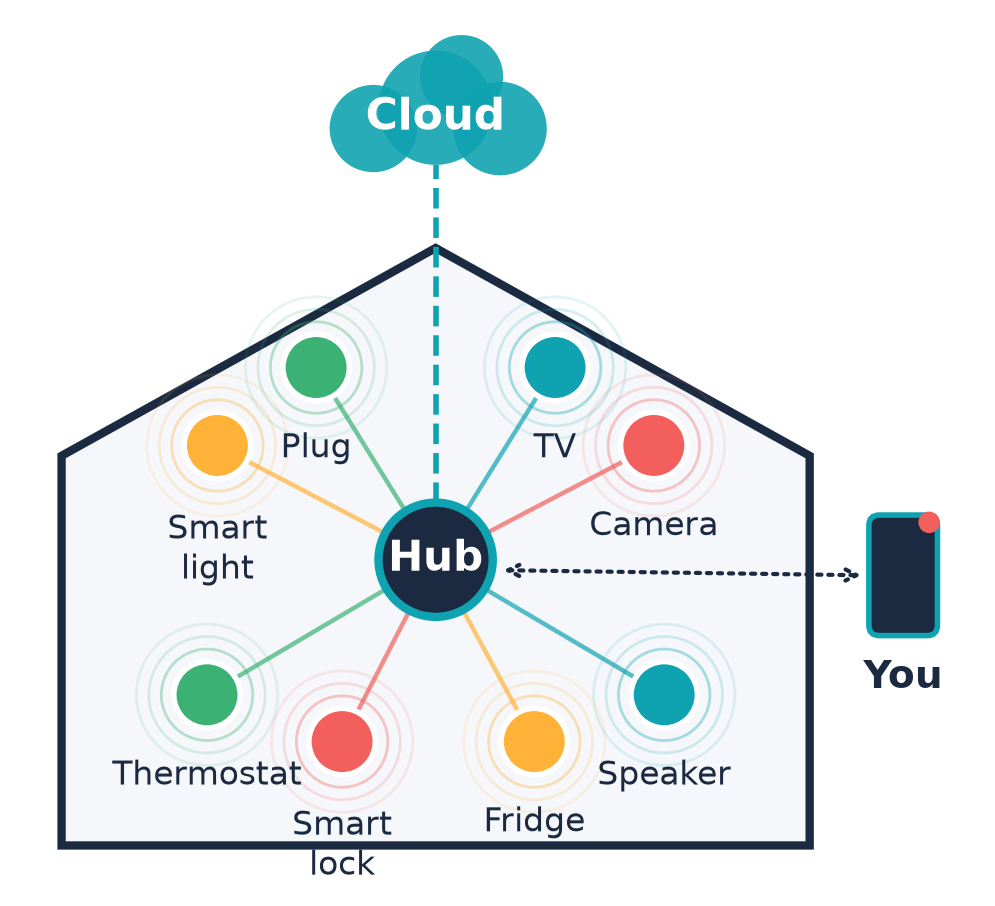
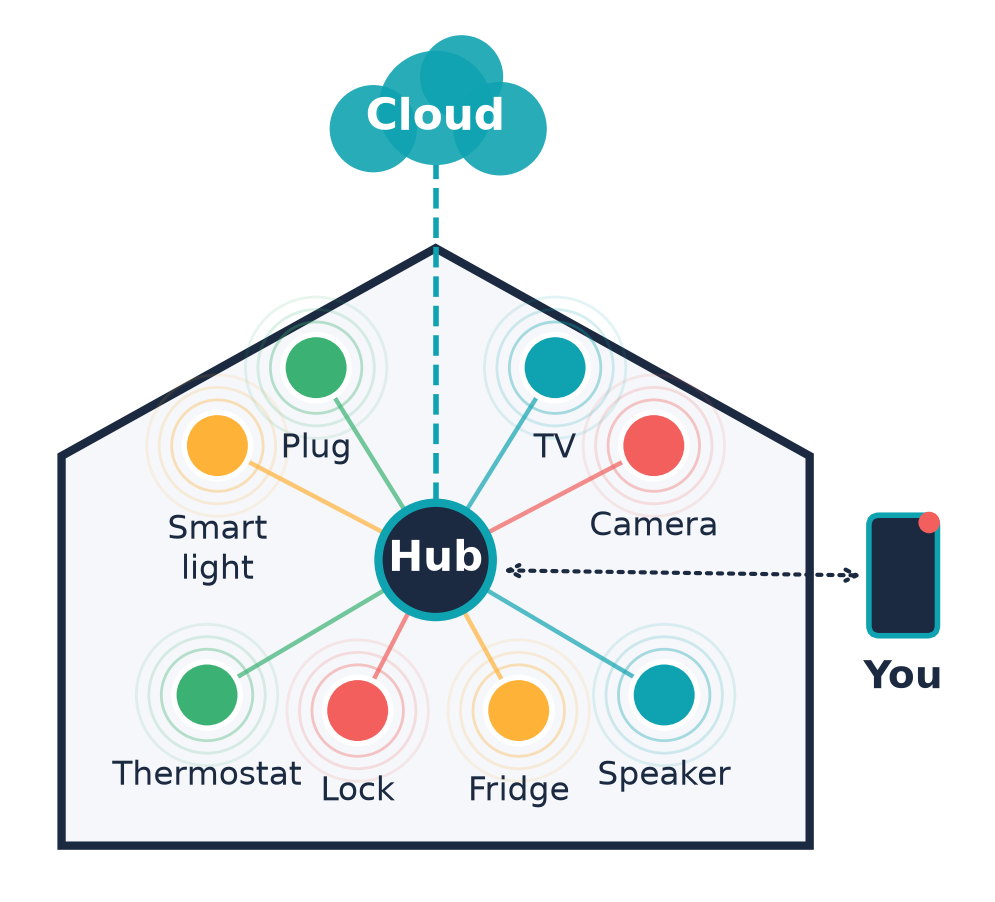
Content: sources for 1844/1969/1973, IEEE bib fixes, wording and data consistency, smart-home figure labels, appendix fits one page (round-4 content findings)

diff --git a/chapters/02-history.tex b/chapters/02-history.tex
@@ -6,7 +6,7 @@
 
 \section{הודעה שנעה במהירות של רגליים}
 
-במשך רוב ההיסטוריה האנושית, מהירות המידע הייתה שווה למהירות הגוף. ציידת-לקטת שרצתה לספר לשבט השכן שנמצא מעיין חדש הייתה צריכה ללכת לשם. מלך שרצה לשלוח פקודה לגבול הממלכה שלח רץ, ואחר כך פרש. גם האימפריות הגדולות של העולם העתיק, עם הדרכים הסלולות ותחנות הדואר שלהן, לא הצליחו לשבור את החוק הבסיסי הזה: הודעה לא יכולה לנוע מהר יותר מהשליח שנושא אותה.
+במשך רוב ההיסטוריה האנושית, מהירות המידע הייתה שווה למהירות הגוף. מי שרצה לספר לשבט השכן שנמצא מעיין חדש היה צריך ללכת לשם ברגליו. מלך שרצה לשלוח פקודה לגבול הממלכה שלח רץ, ואחר כך פרש. גם האימפריות הגדולות של העולם העתיק, עם הדרכים הסלולות ותחנות הדואר שלהן, לא הצליחו לשבור את החוק הבסיסי הזה: הודעה לא יכולה לנוע מהר יותר מהשליח שנושא אותה.
 
 הדפוס של המאה ה-15 שינה את \textbf{כמות} המידע, אבל לא את מהירותו. ספר מודפס עדיין נסע בעגלה. הידיעה על מותו של מלך יכלה להגיע לפינות הממלכה שבועות אחרי שהוכתר יורשו.
 
@@ -14,7 +14,7 @@
 
 \section{המברק: כשהמילים עזבו את הסוס}
 
-ב-24 במאי 1844 שלח סמואל מורס את המברק הציבורי הראשון, מוושינגטון לבולטימור. ארבע מילים מהתנ"ך, \en{"What hath God wrought"}, עברו בין שתי הערים כמעט ברגע. לראשונה בהיסטוריה, הודעה הגיעה לפני השליח. למעשה, לא היה שליח בכלל.
+ב-24 במאי \num{1844} שלח סמואל מורס את המברק הציבורי הראשון, מוושינגטון לבולטימור \parencite{loc1844}. ארבע מילים מהתנ"ך, \en{"What hath God wrought"}, עברו בין שתי הערים כמעט ברגע. לראשונה בהיסטוריה, הודעה הגיעה לפני השליח. למעשה, לא היה שליח בכלל.
 
 קל לזלזל בזה היום, כשהודעת \en{WhatsApp} מגיעה לאוסטרליה בפחות משנייה. אבל עבור בני הדור ההוא זה היה דבר מדהים. עיתונים התחילו לפרסם חדשות מערים רחוקות מאתמול, ולא מהחודש שעבר. בורסות בערים שונות החלו לנשום באותו קצב. והפילוסופים של התקופה כבר דאגו: האם האנושות מסוגלת לעכל כל כך הרבה מידע, כל כך מהר?
 
@@ -24,7 +24,7 @@
 
 בעשורים שאחרי המברק הגיעו הטלפון, הרדיו והטלוויזיה. כל אחד מהם הוסיף משהו: את הקול, את ההמונים, את התמונה. אבל כולם עבדו לפי אותו היגיון: ערוץ אחד, מסר אחד, וקהל שמקבל.
 
-השינוי האמיתי התחיל במעבדות. בסוף אוקטובר 1969 נשלחה ההודעה הראשונה ברשת \en{ARPANET}, מאוניברסיטת \en{UCLA} אל מחשב מרוחק. זו הייתה רשת של חוקרים ושל משרד ההגנה האמריקאי, לא של אזרחים. כמעט אף אחד לא שם לב.
+השינוי האמיתי התחיל במעבדות. ב-29 באוקטובר \num{1969} נשלחה ההודעה הראשונה ברשת \en{ARPANET}, מאוניברסיטת \en{UCLA} אל מחשב מרוחק \parencite{kleinrock2019}. זו הייתה רשת של חוקרים ושל משרד ההגנה האמריקאי, לא של אזרחים. כמעט אף אחד לא שם לב.
 
 ב-1989 הגיש טים ברנרס-לי, מהנדס תוכנה במעבדת \en{CERN}, מסמך פנימי בשם "ניהול מידע: הצעה" \parencite{berners1989}. הממונה עליו רשם על המסמך, לפי המסורת, שההצעה "מעורפלת, אבל מרגשת". מן ההצעה המעורפלת הזאת נולד ה-\en{World Wide Web}. האינטרנט הפסיק להיות רשת של מומחים והתחיל להפוך לעיר שבה כולם יכולים לגור.
 
@@ -48,15 +48,15 @@
 \toprule
 \textbf{שנה} & \textbf{המצאה} & \textbf{מה השתנה} \\
 \midrule
-1844 & המברק של מורס & המידע נע מהר יותר מהשליח \\
+1844 & המברק של מורס & המידע נע מהר יותר מהשליח \parencite{loc1844} \\
 סוף המאה ה-19 & הטלפון & הקול האנושי חוצה מרחקים \\
 שנות ה-20 של המאה ה-20 & הרדיו & תקשורת המונים בזמן אמת \\
 אמצע המאה ה-20 & הטלוויזיה & התמונה נכנסת לסלון \\
-1969 & \en{ARPANET} & מחשבים מתחילים לדבר זה עם זה \\
-1973 & הטלפון הנייד & שיחה בלי חוטים, מהרחוב \\
+1969 & \en{ARPANET} & מחשבים מתחילים לדבר זה עם זה \parencite{kleinrock2019} \\
+1973 & הטלפון הנייד & שיחה בלי חוטים, מהרחוב \parencite{guinness1973} \\
 1989 & הצעת ה-\en{Web} ב-\en{CERN} & רשת שכל אחד יכול לגלוש בה \parencite{berners1989} \\
-שנות ה-2000 וה-2010 & הרשתות החברתיות & כל אדם הופך לתחנת שידור \\
 2007 & ה-\en{iPhone} & האינטרנט עובר לכיס \parencite{apple2007} \\
+שנות ה-2010 & הרשתות החברתיות בסמארטפון & כל אדם הופך לתחנת שידור \\
 2022 & \en{ChatGPT} & המכונה מתחילה לכתוב ולשוחח \parencite{openai2022} \\
 \bottomrule
 \end{tabularx}

diff --git a/chapters/03-digital-day.tex b/chapters/03-digital-day.tex
@@ -10,7 +10,7 @@
 
 היום שלנו בנוי אחרת. הוא מחולק לא לפי השמש אלא לפי המסכים. לפי הדוח הגלובלי \en{Digital 2024}, משתמש אינטרנט טיפוסי מבלה ברשת כ-6 שעות ו-40 דקות ביום, כ-400 דקות \parencite{kemp2024}. שנה קודם לכן היה המספר 6 שעות ו-36 דקות. כלומר, אחרי שנים של זינוק, הוא כמעט התייצב. אולי הגענו לתקרה. אולי פשוט נגמרו לנו השעות.
 
-כדי להבין את המספר הזה, כדאי לחשוב עליו כעל תקציב. אם אתם ישנים כשמונה שעות, נשארות לכם כשש עשרה שעות ערות. מתוכן, כ-\num{40\%} עוברות ברשת. ולא מדובר רק בגלילה בטלפון: גם העבודה מול המחשב, הסדרה בערב והניווט ברכב נכנסים לחשבון. הרשת היא כבר לא מקום שהולכים אליו. היא המקום שבו אנחנו נמצאים.
+כדי להבין את המספר הזה, כדאי לחשוב עליו כעל תקציב. אם אתם ישנים כשמונה שעות, נשארות לכם כשש-עשרה שעות שבהן אתם ערים. מתוכן, כ-\num{40\%} עוברות ברשת. ולא מדובר רק בגלילה בטלפון: גם העבודה מול המחשב, הסדרה בערב והניווט ברכב נכנסים לחשבון. הרשת היא כבר לא מקום שהולכים אליו. היא המקום שבו אנחנו נמצאים.
 
 \section{לאן הולך הזמן}
 
@@ -27,12 +27,12 @@
 סך כל הזמן ברשת & \num{6:40} \\
 רשתות חברתיות & \num{2:23} \\
 טלוויזיה משודרת (ליניארית) & \num{1:44} \\
-טלוויזיה בכל הפורמטים, כולל סטרימינג & יותר משלוש שעות \\
+טלוויזיה בכל הפורמטים, כולל סטרימינג & \num{>3:00}\textsuperscript{*} \\
 \bottomrule
 \end{tabularx}
 
 \vspace{0.3em}
-{\small\sffamily מקור: \textcite{kemp2024}. הפעילויות חופפות זו לזו, ולכן אינן מסתכמות לסך הכולל.}
+{\small\sffamily מקור: \textcite{kemp2024}. הפעילויות חופפות זו לזו, ולכן אינן מסתכמות לסך הכולל. \textsuperscript{*}הדוח מוסר רק שהזמן עולה על שלוש שעות, בלי ערך מדויק.}
 \end{table}
 
 הרשתות החברתיות לבדן לוקחות כ-2 שעות ו-23 דקות ביום \parencite{kemp2024}. נסו להשוות את זה לזמן שאתם מקדישים לארוחות, לספורט ולשיחה פנים אל פנים עם בני המשפחה, ביחד. המעניין הוא שהמספר הזה דווקא ירד מעט, מ-2 שעות ו-31 דקות בשנה הקודמת, אבל לפי הדוח עצמו, רוב הירידה נובעת משינוי בשיטת המדידה \parencite{kemp2024}. גם לסטטיסטיקה יש מצבי רוח.
@@ -52,7 +52,7 @@
 איך מסבירים את הפער? אפשר היה לנחש שהמדינות העשירות והטכנולוגיות ביותר יובילו. אבל דרום קוריאה, אחת המדינות המחוברות והמתקדמות בעולם, נמצאת דווקא סמוך לתחתית האיור. חשוב לזכור שאת המדינות באיור בחרנו אנחנו, מתוך אלה שהדוח מזכיר בטקסט, כדי להמחיש את הטווח. זו לא רשימה מלאה ולא דירוג. הנתונים לבדם לא מסבירים את הסיבה, וכדאי להיזהר מתשובות מהירות. ייתכן שיש לכך קשר לשעות העבודה, לגיל האוכלוסייה, למזג האוויר או לתרבות של בילוי מחוץ לבית. ייתכן שבמקומות שבהם הטלפון הוא המחשב היחיד, הוא גם הקולנוע, הבנק והכיכר העירונית. הדבר הבטוח היחיד הוא שזמן מסך איננו גזירת גורל טכנולוגית. הוא גם עניין של תרבות.
 
 \begin{factbox}[קנה המידה]
-בתחילת 2024 היו בעולם כ-5.35 מיליארד משתמשי אינטרנט וכ-5.04 מיליארד "זהויות" ברשתות חברתיות \parencite{kemp2024}. זהויות, לא אנשים: לאדם אחד יכולים להיות כמה חשבונות, ולחשבון אחד יכולים להיות כמה בעלים.
+בתחילת \num{2024} היו בעולם כ-\num{5.35} מיליארד משתמשי אינטרנט וכ-\num{5.04} מיליארד "זהויות" ברשתות חברתיות \parencite{kemp2024}. המספר נמוך מ-\num{5.87} המיליארד שבפרק הקודם, כי מדובר במקור אחר: \en{DataReportal} מודד את תחילת השנה ובשיטה משלו, ואילו \en{ITU} מעריך את השנה כולה, ובסדרה המעודכנת. זהויות, לא אנשים: לאדם אחד יכולים להיות כמה חשבונות, ולחשבון אחד יכולים להיות כמה בעלים.
 \end{factbox}
 
 \section{הזמן כמטבע}

diff --git a/chapters/06-smart-home.tex b/chapters/06-smart-home.tex
@@ -18,22 +18,22 @@
 
 איור~\ref{fig:smart-home} ממחיש את הרעיון. כל מכשיר בבית הוא צומת ברשת. כל אחד מהם אוסף מידע קטן ותמים לכאורה: טמפרטורה, תנועה, צריכת חשמל, קול. אבל כשמחברים את כל הנקודות, מתקבלת תמונה מפורטת להפתיע של החיים בתוך הבית.
 
-\section{כעשרים מיליארד חפצים מחוברים}
+\section{יותר משמונה-עשר מיליארד חפצים מחוברים}
 
-כמה "דברים" כבר מחוברים? לפי חברת המחקר \en{IoT Analytics}, ב-2024 היו בעולם כ-18.5 מיליארד מכשירים מחוברים, והתחזית ל-2025 עומדת על כ-21.1 מיליארד \parencite{iotanalytics2025}. צריך לקרוא את המספר הזה בזהירות. רובם המכריע של המכשירים האלה אינם בבתים: המספר כולל גם חיישנים במפעלים, בחקלאות ובתחבורה. לכן הוא איננו מודד בתים חכמים, ואין טעם להעמיד אותו מול מספר בני האדם המחוברים. מה שהוא כן מראה הוא שהרשת כבר איננה רק רשת של בני אדם.
+כמה "דברים" כבר מחוברים? לפי חברת המחקר \en{IoT Analytics}, ב-\num{2024} היו בעולם כ-\num{18.5} מיליארד מכשירים מחוברים. בדוח שפרסמה באוקטובר \num{2025} היא חזתה כ-\num{21.1} מיליארד עד סוף \num{2025} \parencite{iotanalytics2025}. כלומר, \num{18.5} הוא הנתון המדוד האחרון בדוח, ו-\num{21.1} הוא תחזית שפורסמה לפני סוף השנה, לא מדידה. צריך לקרוא את המספר הזה בזהירות. רובם המכריע של המכשירים האלה אינם בבתים: המספר כולל גם חיישנים במפעלים, בחקלאות ובתחבורה. לכן הוא איננו מודד בתים חכמים, ואין טעם להעמיד אותו מול מספר בני האדם המחוברים. מה שהוא כן מראה הוא שהרשת כבר איננה רק רשת של בני אדם.
 
 \begin{factbox}[מכשירים מחוברים בעולם]
 \begin{itemize}
   \item 2022: כ-14.4 מיליארד
   \item 2023: כ-16.7 מיליארד
   \item 2024: כ-18.5 מיליארד
-  \item 2025: כ-21.1 מיליארד (תחזית)
-  \item 2030: כ-39 מיליארד (תחזית)
+  \item 2025: כ-21.1 מיליארד (תחזית מאוקטובר \num{2025})
+  \item 2030: כ-39 מיליארד (תחזית מאוקטובר \num{2025})
 \end{itemize}
 מקור: \textcite{iotanalytics2025}. כל המכשירים המחוברים בעולם, לא רק בבתים.
 \end{factbox}
 
-הסדרה הזאת מראה האצה. בין 2022 ל-2024 נוספו כארבעה מיליארד מכשירים בתוך שנתיים. אם תחזית 2025 תתממש, בתוך שלוש שנים בלבד יתווספו כשבעה מיליארד מכשירים, ולפי התחזית, עד 2030 המספר יגדל פי שניים ויותר לעומת 2024 \parencite{iotanalytics2025}. אלה תחזיות של חברת מחקר, לא מדידות, והן כוללות את כל המכשירים המחוברים, לא רק את אלה שבבית. הרשת, שהתחילה כקשר בין כמה מחשבים באוניברסיטאות, הופכת למערכת עצבים שעוטפת את כדור הארץ.
+הסדרה הזאת מראה האצה. בין 2022 ל-2024 נוספו כארבעה מיליארד מכשירים בתוך שנתיים. אם תחזית \num{2025}, שפורסמה באוקטובר של אותה שנה, התממשה, בתוך שלוש שנים בלבד יתווספו כשבעה מיליארד מכשירים, ולפי התחזית, עד 2030 המספר יגדל פי שניים ויותר לעומת 2024 \parencite{iotanalytics2025}. אלה תחזיות של חברת מחקר, לא מדידות, והן כוללות את כל המכשירים המחוברים, לא רק את אלה שבבית. הרשת, שהתחילה כקשר בין כמה מחשבים באוניברסיטאות, הופכת למערכת עצבים שעוטפת את כדור הארץ.
 
 \section{נוחות במחיר פרטיות}
 

diff --git a/chapters/04-attention.tex b/chapters/04-attention.tex
@@ -33,7 +33,7 @@
 
 \section{מעגל בן שמונה שלבים}
 
-מודל ה-\en{Hook} מסביר מה קורה בצד של המשתמש. אבל כדי להבין את כלכלת הקשב, צריך לראות גם את הצד השני של המסך. איור~\ref{fig:attention-loop} מחבר את שני הצדדים למעגל אחד בן שמונה שלבים. חשוב לומר בדיוק מה מקורו של כל חלק. שלבים \num{1--4} הם מודל ה-\en{Hook} של אייל \parencite{eyal2014}. שלבים \num{5--8} הם \textbf{סינתזה של מחבר הספר}: הם אינם מופיעים כשלבים לא אצל אייל ולא אצל זובוף, אלא מנסים לתרגם לשרשרת פשוטה את הרעיון של זובוף על העודף ההתנהגותי, שנפגוש בהמשך הפרק \parencite{zuboff2019}.
+מודל ה-\en{Hook} מסביר מה קורה בצד של המשתמש. אבל כדי להבין את כלכלת הקשב, צריך לראות גם את הצד השני של המסך. איור~\ref{fig:attention-loop} מחבר את שני הצדדים למעגל אחד בן שמונה שלבים. חשוב לומר בדיוק מה מקורו של כל חלק. שלבים \num{1--4} הם מודל ה-\en{Hook} של אייל \parencite{eyal2014}. שלבים \num{5--8} הם \textbf{הסינתזה שלנו}: הם אינם מופיעים כשלבים לא אצל אייל ולא אצל זובוף, אלא מנסים לתרגם לשרשרת פשוטה את הרעיון של זובוף על העודף ההתנהגותי, שנפגוש בהמשך הפרק \parencite{zuboff2019}.
 
 \input{chapters/figures/attention-loop}
 
@@ -44,7 +44,7 @@
   \item \textbf{פעולה}: אתם פותחים את האפליקציה. זה לוקח שנייה, ולא דורש מחשבה.
   \item \textbf{תגמול משתנה}: אולי לייק, אולי הודעה, אולי סרטון מצחיק. אי-הוודאות היא שמחזיקה אתכם.
   \item \textbf{השקעה}: אתם מגיבים, מעלים תמונה, עוקבים אחרי מישהו. כל השקעה כזאת מגדילה את הסיכוי שתחזרו.
-  \item \textbf{איסוף נתונים}: כל גלילה, כל עצירה וכל הקלקה נרשמות.
+  \item \textbf{איסוף נתונים}: כל גלילה, כל עצירה וכל לחיצה נרשמות.
   \item \textbf{אלגוריתם}: המערכת לומדת מה מחזיק דווקא אתכם, ומתאימה את התוכן הבא.
   \item \textbf{פרסום ממוקד}: הקשב שלכם, יחד עם מה שנלמד עליכם, נמכר למפרסמים.
   \item \textbf{הכנסות}: הכסף מושקע בחזרה בפיתוח תכונות שמחזיקות אתכם עוד יותר, והמעגל מתחיל מחדש עם טריגר חדש.

diff --git a/chapters/09-appendix-code.tex b/chapters/09-appendix-code.tex
@@ -2,10 +2,6 @@
 \addcontentsline{toc}{chapter}{נספח א: הקוד שמאחורי הגרף}
 \markboth{נספח א: הקוד שמאחורי הגרף}{}
 
-כל הגרפים בספר נוצרו בקוד \en{Python}, ולא צוירו ביד. כך אפשר לבדוק כל מספר בגרף מול המקור שצוין לו, וכל שינוי בנתונים מייצר גרף חדש בפקודה אחת. הקטע שלמטה הוא הפונקציה שמייצרת את איור~\ref{fig:goldilocks}. היא מתרגמת את משוואה~\eqref{eq:goldilocks} ישירות לקוד: לכל פעילות היא בוחרת $\beta_1 = 2\beta_2 t^{*}$, כך שהשיא של העקומה נופל בדיוק על נקודת המפנה שדווחה, לפי ההודעה לעיתונות על המאמר של \textcite{przybylski2017}. שימו לב למה שזה אומר: מיקום השיא הוא \textbf{קלט} של המודל ולא תוצאה שלו, וגובה העקומות מנורמל לאותו ערך. הקוד מדגים את הצורה, אבל אינו מוכיח אותה.
+כל הגרפים בספר נוצרו בקוד \en{Python}, ולא צוירו ביד, וכל הספר נבנה מחדש בפקודה אחת, \en{bash build.sh}. הקטע שלמטה הוא הפונקציה שמייצרת את איור~\ref{fig:goldilocks}. היא מתרגמת את משוואה~\eqref{eq:goldilocks} ישירות לקוד: לכל פעילות היא בוחרת $\beta_1 = 2\beta_2 t^{*}$, כך שהשיא נופל בדיוק על נקודת המפנה שדווחה \parencite{przybylski2017}. שימו לב: מיקום השיא הוא \textbf{קלט} של המודל ולא תוצאה שלו, והגובה מנורמל. הקוד מדגים את הצורה, אבל אינו מוכיח אותה.
 
 \pythonfile[firstline=107, lastline=137]{python/make_graphs.py}{הפונקציה \en{goldilocks()} מתוך \en{python/make\_graphs.py}}
-
-\begin{factbox}[איך משחזרים את הספר]
-כל הספר נבנה מחדש בפקודה אחת: \en{bash build.sh}. הפקודה מריצה את סקריפטי ה-\en{Python} שמייצרים את התמונות, ואז \en{lualatex}, \en{biber} ושוב \en{lualatex} פעמיים. קבצי המקור, התבנית \en{connected.cls} והנתונים נמצאים כולם במאגר, ולכן כל אחד יכול לקבל \en{PDF} זהה.
-\end{factbox}

diff --git a/chapters/05-wellbeing.tex b/chapters/05-wellbeing.tex
@@ -63,7 +63,7 @@ t^{*} = \frac{\beta_1}{2\beta_2}
   \item \textbf{מחשב לשימוש פנאי}: כ-4 שעות ו-17 דקות ביום.
 \end{itemize}
 
-במילים פשוטות: בערך שעתיים בסמארטפון ביום חול, ועד כארבע שעות ויותר בצפייה וביישומי מחשב. לפי הערכים האלה, הסמארטפון ומשחקי הווידאו מגיעים לנקודת המפנה מוקדם ביותר, עוד לפני שתי שעות ביום. אבל אל תתייחסו לדקות כאל גבול מדויק: מדובר בממוצע של מדגם אחד, סביב אפקט קטן.
+במילים פשוטות: בערך שעתיים בסמארטפון ביום חול, ובסביבות ארבע שעות, מעט פחות או מעט יותר, בצפייה ובמחשב. לפי הערכים האלה, הסמארטפון ומשחקי הווידאו מגיעים לנקודת המפנה מוקדם ביותר, עוד לפני שתי שעות ביום. אבל אל תתייחסו לדקות כאל גבול מדויק: מדובר בממוצע של מדגם אחד, סביב אפקט קטן.
 
 \begin{alertbox}[זהירות: אפקט קטן, קשר ולא סיבה]
 שני דברים חשוב לזכור. ראשית, \textbf{האפקט חלש}. גם בשימוש גבוה, ההבדל ברווחה קטן \parencite{przybylski2017}. שנית, זה \textbf{מחקר מתאמי}: הוא מראה ששני דברים הולכים יחד, לא שאחד גורם לשני. ייתכן שמתבגרים שמרגישים רע פונים יותר למסכים, ולא להפך. ניתוח מאוחר יותר של מדגמים גדולים מצא קשר שלילי קטן מאוד בין שימוש בטכנולוגיה לבין רווחת מתבגרים \parencite{orben2019}. זה הממצא החשוב ביותר בפרק, חשוב יותר מהמיקום המדויק של כל שיא.

diff --git a/chapters/figures/attention-loop.tex b/chapters/figures/attention-loop.tex
@@ -38,6 +38,6 @@
                         b5/5/screen, b6/6/screen, b7/7/night, b8/8/night}
     \node[num=\c] at (\b.north east) {\n};
 \end{ltrpicture}
-\caption[מעגל כלכלת הקשב: שמונה שלבים]{מעגל כלכלת הקשב: שמונה שלבים שהופכים דקה של סקרנות לשעה של גלילה. שלבים \num{1--4}: מודל ה-\en{Hook} של \textcite{eyal2014}. שלבים \num{5--8}: סינתזה של מחבר הספר, בהשראת רעיון העודף ההתנהגותי (\en{behavioral surplus}) של \textcite{zuboff2019}.}
+\caption[מעגל כלכלת הקשב: שמונה שלבים]{מעגל כלכלת הקשב: שמונה שלבים שהופכים דקה של סקרנות לשעה של גלילה. שלבים \num{1--4}: מודל ה-\en{Hook} של \textcite{eyal2014}. שלבים \num{5--8}: הסינתזה שלנו, בהשראת רעיון העודף ההתנהגותי (\en{behavioral surplus}) של \textcite{zuboff2019}.}
 \label{fig:attention-loop}
 \end{figure}

diff --git a/chapters/01-intro.tex b/chapters/01-intro.tex
@@ -52,4 +52,4 @@
   \item \textbf{סיכום ומבט לעתיד}: מה קורה כשהמכונה מתחילה לדבר בחזרה.
 \end{enumerate}
 
-לאורך הדרך תמצאו תיבות צבעוניות: נתוני מפתח, אזהרות, טיפים ושאלות למחשבה. את רוב השאלות לא נפתור. אבל לפעמים שאלה טובה שווה יותר מתשובה מהירה. בעיקר בעידן שבו תשובות מהירות נמצאות במרחק הקלקה אחת.
+לאורך הדרך תמצאו תיבות צבעוניות: נתוני מפתח, אזהרות, טיפים ושאלות למחשבה. את רוב השאלות לא נפתור. אבל לפעמים שאלה טובה שווה יותר מתשובה מהירה. בעיקר בעידן שבו תשובות מהירות נמצאות במרחק לחיצה אחת.

diff --git a/python/make_images.py b/python/make_images.py
@@ -77,7 +77,9 @@ def smart_home():
     # מכשירים: (x, y, צבע, תווית, צורה)
     devices = [(-2.1, 1.1, SUN, "Smart\nlight"), (2.1, 1.1, NOTIF, "Camera"),
                (-2.2, -1.3, LEAF, "Thermostat"), (2.2, -1.3, SCREEN, "Speaker"),
-               (-0.9, -1.75, NOTIF, "Smart\nlock"), (0.95, -1.75, SUN, "Fridge"),
+               # IMG-03: one-line "Lock" label, bottom row raised, so no label crosses
+               # the wall or touches "Thermostat"
+               (-0.75, -1.45, NOTIF, "Lock"), (0.8, -1.45, SUN, "Fridge"),
                (-1.15, 1.85, LEAF, "Plug"), (1.15, 1.85, SCREEN, "TV")]
     for x, y, c, lab in devices:
         ax.plot([0, x], [0, y], color=c, lw=1.6, alpha=0.7, zorder=3)

diff --git a/research/editor-report.md b/research/editor-report.md
@@ -170,3 +170,19 @@
 ### פרק 6: סדרת המכשירים המחוברים
 
 תיבת "מכשירים מחוברים בעולם" עם הסדרה המלאה של `iotanalytics2025` (2022: 14.4, 2023: 16.7, 2024: 18.5, 2025: 21.1 תחזית, 2030: 39 תחזית, במיליארדים) כבר הייתה בפרק, עם הסימון "תחזית" ועם ההערה "לא רק בבתים". חיזקתי את הפסקה שאחריה: נוסף שבין 2022 ל-2024 נוספו כארבעה מיליארד מכשירים, ונוסף `\parencite{iotanalytics2025}` לחישובי הצמיחה. נכתב שם במפורש שהמספרים ל-2025 ול-2030 הם תחזיות ולא מדידות, ושהם כוללים את כל המכשירים המחוברים, לא רק את אלה שבבית. בסיכום (פרק 8) נוספה השנה: "פעלו ב-2024 כ-18.5 מיליארד".
+
+## סבב 4: תיקוני תוכן (Detector 4)
+
+| ID | מה השתנה | קובץ |
+|----|----------|------|
+| DATA-01 | נוספו שלושה מקורות: `loc1844` (Library of Congress, Today in History, May 24), `kleinrock2019` (Kleinrock, ICANN Blog, 29.10.2019) ו-`guinness1973` (Guinness World Records, First cellular phone). `\parencite` בטקסט ובשורות 1844, 1969 ו-1973 של טבלה 2.1. "בסוף אוקטובר 1969" דויק ל-"ב-29 באוקטובר" לפי המקור. facts.md: שלוש השורות סומנו "מאומת" | `chapters/02-history.tex`, `refs.bib`, `research/facts.md` |
+| BIB-01 | סוגריים מסולסלים לשמות פרטיים ולחודש (`{November}`, `{Internet}`, `{Digital 2024}`, `{Israel}`, `{State of IoT 2025}`, `{Apple}` וכו'). `year/month/day` הוחלפו בשדה `date` בכל רשומות `@online` שיש להן תאריך פרסום (kemp2024: 2024-01, itu2024: 2024-11, itu2026data: 2026-11, iotanalytics2025: 2025-10, apple2007, openai2022, kleinrock2019). לדף ה-LoC ולדף Guinness אין תאריך פרסום, ולכן אין להם `date` | `refs.bib` |
+| LANG-02 | "סינתזה של מחבר הספר" ← "הסינתזה שלנו" (בטקסט ובכיתוב האיור) | `chapters/04-attention.tex`, `chapters/figures/attention-loop.tex` |
+| LANG-03 | "הקלקה" ← "לחיצה" (2 מקומות); "כשש עשרה שעות ערות" ← "כשש-עשרה שעות שבהן אתם ערים"; "ועד כארבע שעות ויותר" ← "ובסביבות ארבע שעות, מעט פחות או מעט יותר" (3:41 ו-4:17); "ציידת-לקטת" נשארה בפרק 1, ובפרק 2 נכתב "מי שרצה לספר... ברגליו" | `01-intro.tex`, `04-attention.tex`, `03-digital-day.tex`, `05-wellbeing.tex`, `02-history.tex` |
+| CONT-01 | שורת הרשתות החברתיות עברה אחרי 2007: "שנות ה-2010, הרשתות החברתיות בסמארטפון". הטבלה כרונולוגית | `chapters/02-history.tex` |
+| CONT-02 | "יותר משלוש שעות" ← `\num{>3:00}*`, והערה מתחת לטבלה: הדוח מוסר רק שהזמן עולה על שלוש שעות | `chapters/03-digital-day.tex` |
+| CONT-03 | נוסף משפט: 5.35 נמוך מ-5.87 שבפרק הקודם כי DataReportal מודד את תחילת השנה בשיטה משלו, ו-ITU מעריך את השנה כולה בסדרה המעודכנת | `chapters/03-digital-day.tex` |
+| CONT-04 | הכותרת ← "יותר משמונה-עשר מיליארד חפצים מחוברים"; 21.1 ו-39 מסומנים "תחזית מאוקטובר 2025"; "אם תחזית 2025 תתממש" ← "אם תחזית 2025, שפורסמה באוקטובר של אותה שנה, התממשה" | `chapters/06-smart-home.tex` |
+| LAYOUT-03 | תיבת "איך משחזרים את הספר" הועברה לפני `\pythonfile`, מיד אחרי פסקת הפתיחה | `chapters/09-appendix-code.tex` |
+
+לא קומפל (לפי ההוראות). צריך לבדוק בבנייה הבאה את `\num{>3:00}` ואת שלוש הרשומות החדשות ב-biber.

diff --git a/research/facts.md b/research/facts.md
@@ -43,12 +43,12 @@ users_bn = [1.02, 1.98, 2.96, 4.18, 4.72, 5.06, 5.38, 5.65, 5.87]
 
 | שנה | אבן דרך | מצב אימות / מקור |
 |-----|---------|-------------------|
-| 1844 | מורס שולח את המברק הציבורי הראשון מוושינגטון לבולטימור, "What hath God wrought" (24 במאי) | מאומת: Library of Congress, "Today in History, May 24" (אין רשומה ב-refs.bib; אפשר לצטט בלי הערת שוליים או להוסיף) |
+| 1844 | מורס שולח את המברק הציבורי הראשון מוושינגטון לבולטימור, "What hath God wrought" (24 במאי) | **מאומת:** `loc1844`, Library of Congress, "Today in History, May 24", https://www.loc.gov/item/today-in-history/may-24/ (נבדק 19.11.2026, סבב 4) |
 | 1876 | פטנט הטלפון של בל | **[לא נבדק בסשן הזה]** תאריך מקובל (מרץ 1876), ללא מקור ב-bib |
 | 1895-1901 / 1920 | רדיו: מרקוני, ואחר כך שידור מסחרי | **[לא נבדק]** ידע כללי; מומלץ לנסח בזהירות ("בשנות ה-20 של המאה ה-20 הרדיו הפך לתקשורת המונים") |
 | 1930s-50s | טלוויזיה נכנסת לבתים | **[לא נבדק]** ניסוח כללי בלבד, בלי תאריך מדויק |
-| 1969 | ARPANET: ההודעה הראשונה (29 באוקטובר 1969), קליינרוק וקליין, מ-UCLA | מאומת חלקית (ציר זמן משני). פרט ה"LO" לפני הקריסה **[לא מאומת]** |
-| 1973 | מרטין קופר ממוטורולה מבצע את שיחת הטלפון הנייד הראשונה (3 באפריל), אל ד"ר ג'ואל אנגל מ-Bell Labs | מאומת חלקית (Guinness World Records ומקורות משניים) |
+| 1969 | ARPANET: ההודעה הראשונה (29 באוקטובר 1969), קליינרוק וקליין, מ-UCLA | **מאומת:** `kleinrock2019`, L. Kleinrock, "The First Message Transmission", ICANN Blog, 29.10.2019 (התאריך 29 באוקטובר 1969, מ-UCLA אל SRI). פרט ה"LO" לא נבדק במקור ואינו בשימוש בספר (נבדק 19.11.2026, סבב 4) |
+| 1973 | מרטין קופר ממוטורולה מבצע את שיחת הטלפון הנייד הראשונה (3 באפריל), אל ד"ר ג'ואל אנגל מ-Bell Labs | **מאומת:** `guinness1973`, Guinness World Records, "First cellular phone" (קופר, מוטורולה, 3 באפריל 1973), https://www.guinnessworldrecords.com/world-records/first-cellular-phone (נבדק 19.11.2026, סבב 4) |
 | 1989 | טים ברנרס-לי מגיש ב-CERN את "Information Management: A Proposal", ההצעה שהולידה את ה-WWW (מרץ 1989; הגרסה ב-W3C מתוארכת מאי 1990). הבוס כתב עליה "Vague, but exciting" | מאומת: `berners1989` + דף ההיסטוריה של CERN |
 | 2007 | אפל מכריזה על האייפון, 9 בינואר 2007 (משלוחים החלו ביוני). הודעת אפל תיארה אותו כשלושה מוצרים: טלפון נייד, אייפוד עם מגע, ומכשיר תקשורת לאינטרנט | מאומת: `apple2007` |
 | 2004 / 2010 / 2017 | פייסבוק (2004), אינסטגרם (2010), טיקטוק הבינלאומי (2017) | **[לא אומת בסשן]** נתוני שנים מקובלים, ללא מקור ב-bib; מומלץ לנסח "בשנות ה-2000 וה-2010" או לאמת לפני שימוש |
